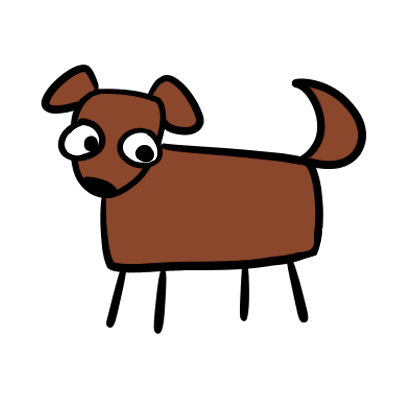
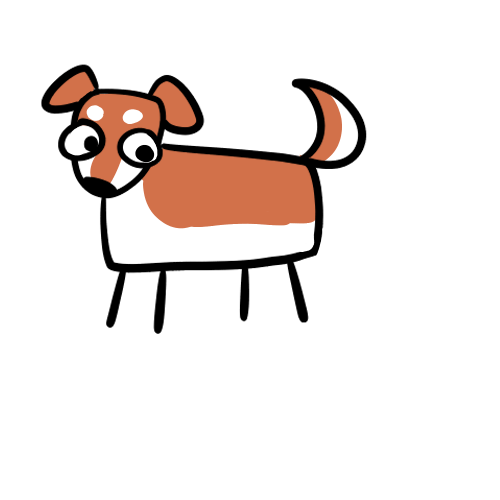
Update animal sprites so that custom pet gets genrated

diff --git a/Pet.java b/Pet.java
@@ -1,4 +1,10 @@
 /* Generates animal with desired occupatation */
+
+import java.io.File;
+import java.awt.image.BufferedImage;
+import javax.imageio.ImageIO;
+import java.awt.*;
+
 public class Pet {
     private String[] speciesList = {
         "Dog", "Cat", "Parrot", "Hamster", "Snake", "Lizard"
@@ -6,9 +12,10 @@ public class Pet {
 
     //Private instance variables - general info (will not be changed)
     private String species;
-    private int variation; //different colors/appearances per species (will have 3 types but there are only 2 rn)
+    private int variation; //different colors/appearances per species (3 types)
     private Occupation occupation;
     private String img;
+    private String owner;
 
     //Private instance variable - health info (can be changed)
     private String name;
@@ -19,14 +26,29 @@ public class Pet {
 
     private static int petNum = 0; //keeps track of total number of ppets
 
-    public Pet() {
+    public Pet(String ownerName) {
         petNum++;
 
         name = "Pet #" + petNum;
         species = speciesList[(int)(Math.random()*speciesList.length)];
-        variation = (int)(Math.random()*2) +1;
+        variation = (int)(Math.random()*3) +1;
         occupation = new Occupation();
-        img = "img/pet/" + species + variation + ".jpg";
+        owner = ownerName;
+        //creates an image combining species and occupation and puts it in playerpets under the player's name
+        try {
+            BufferedImage backgroundImage = ImageIO.read(new File("img/pet/" + species + variation + ".png"));
+            BufferedImage overlayImage = ImageIO.read(new File("img/occupation/" + occupation.getDreamJob() + ".png"));
+            Graphics2D g2d = backgroundImage.createGraphics();
+            g2d.setRenderingHint(RenderingHints.KEY_ANTIALIASING, RenderingHints.VALUE_ANTIALIAS_ON);
+            g2d.drawImage(overlayImage, 0, 0, null);
+            g2d.dispose();
+
+            ImageIO.write(backgroundImage, "png", new File("img/playerpets/" + owner + "_" + name + ".png"));
+            img = "img/playerpets/" + owner + "_" + name + ".png";
+        } catch (Exception e) {
+            System.out.println("Error occured.");
+            img = "img/pet/" + species + variation + ".png";
+        }
 
         level = 0;
         hunger = 100;

diff --git a/Main.java b/Main.java
@@ -3,33 +3,39 @@ import javax.swing.JFrame;
 public class Main {
     public static void main(String[] args) {
         Player player = new Player();
+        player.setName("John");
 
-        Pet pet1 = new Pet();
+        Pet pet1 = new Pet(player.getName());
         System.out.println(pet1.getName());
         pet1.setName("Prometheus");
         System.out.println(pet1);
 
-        Pet pet2 = new Pet();
+        Pet pet2 = new Pet(player.getName());
         pet2.setName("SUPER FENT WARRIOR");
         System.out.println(pet2);
 
+        Pet pet3 = new Pet(player.getName());
+        pet3.setName("Painter");
+        System.out.println(pet3);
 
-        player.AddPet(pet1);
-        player.AddPet(pet2);
+        Display.loadPetDisplay(pet3);
 
-        Task task1 = new Task("I believe I can fly", "Jump off a building", 30, 50);
-        Task task2 = new Task("Task 2", "number 2", 2, 100);
-        Task task3 = new Task("Destablize a country", "Take over France", 1000, 1000000);
+        // player.AddPet(pet1);
+        // player.AddPet(pet2);
 
-        player.AddTask(task3);
-        player.AddTask(task2);
-        player.AddTask(task1);
+        // Task task1 = new Task("I believe I can fly", "Jump off a building", 30, 50);
+        // Task task2 = new Task("Task 2", "number 2", 2, 100);
+        // Task task3 = new Task("Destablize a country", "Take over France", 1000, 1000000);
 
-        for (int i=1; i<=100; i++) {
-            player.IncrementTimeScale();
-            System.out.println(player.GetTimeScale());
-            player.UpdatePetHunger(-10);
-            player.UpdateTask();
-        }
+        // player.AddTask(task3);
+        // player.AddTask(task2);
+        // player.AddTask(task1);
+
+        // for (int i=1; i<=100; i++) {
+        //     player.IncrementTimeScale();
+        //     System.out.println(player.GetTimeScale());
+        //     player.UpdatePetHunger(-10);
+        //     player.UpdateTask();
+        // }
     }
 }

diff --git a/Player.java b/Player.java
@@ -34,6 +34,8 @@ class Player {
 
 
     }
+    public String getName() {return name;}
+    public void setName(String newName) {name = newName;}
 
     public void AddTask(Task newTask) {
         tasks.add(newTask);
@@ -126,7 +128,7 @@ class Player {
 
             if (choice == 1 && totalCoins > 100) {
                 totalCoins -= 100;
-                Pet newPet = new Pet();
+                Pet newPet = new Pet(name);
                 System.out.println("What do you want to name your pet? ");
                 String petName = scan.nextLine();
 
